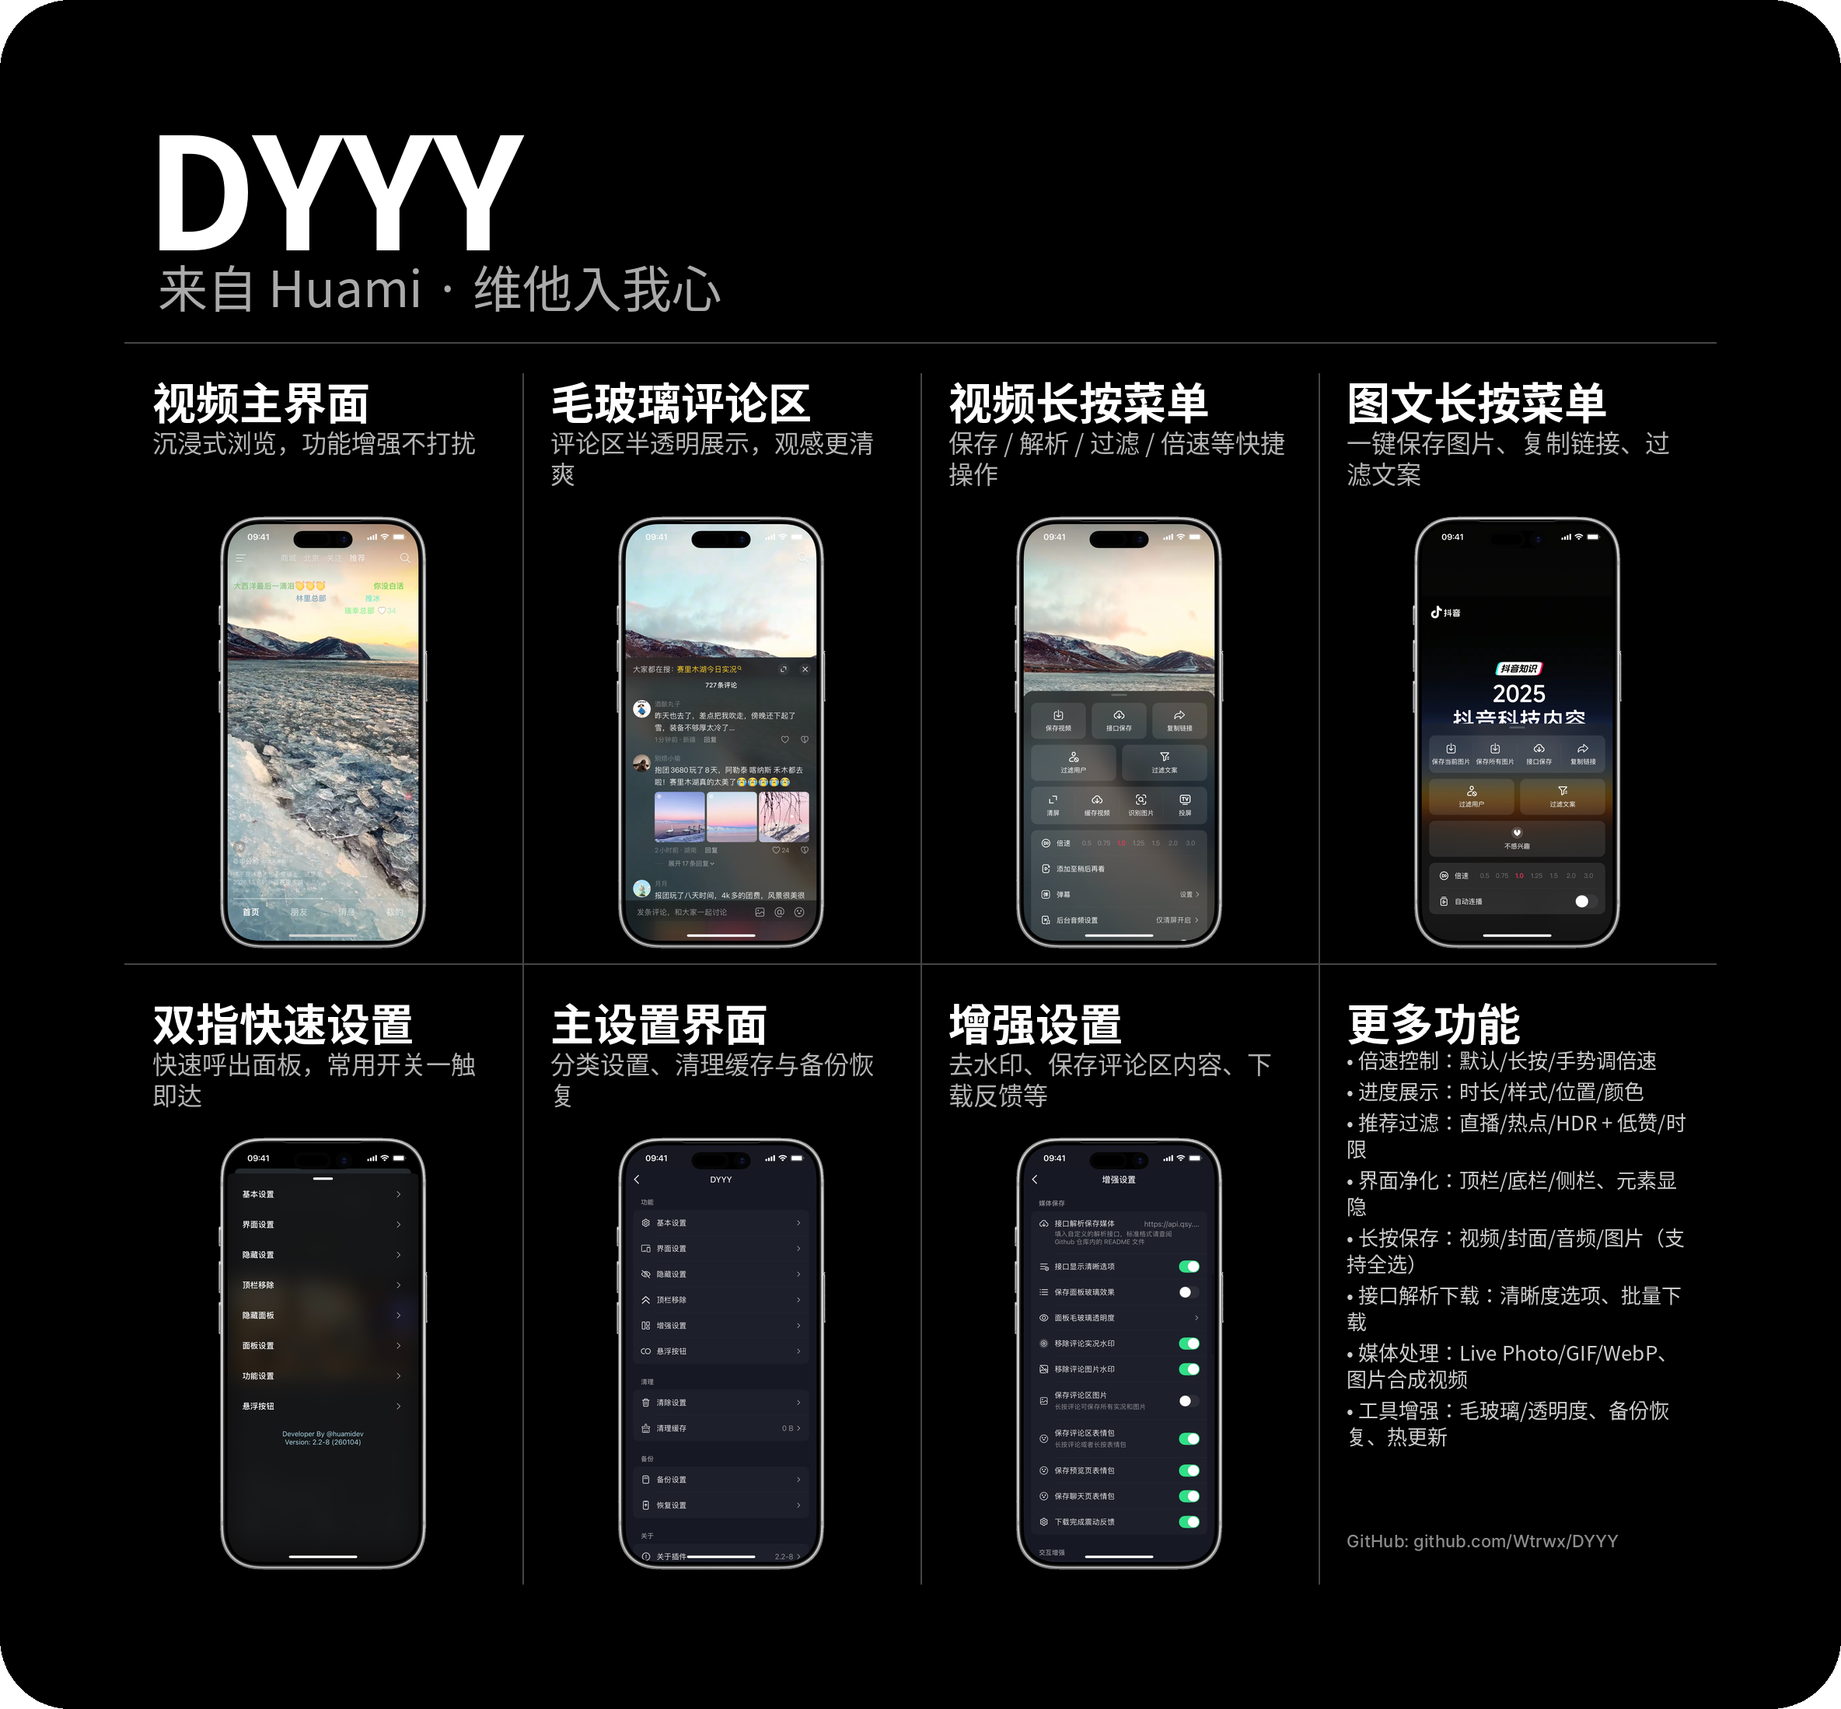
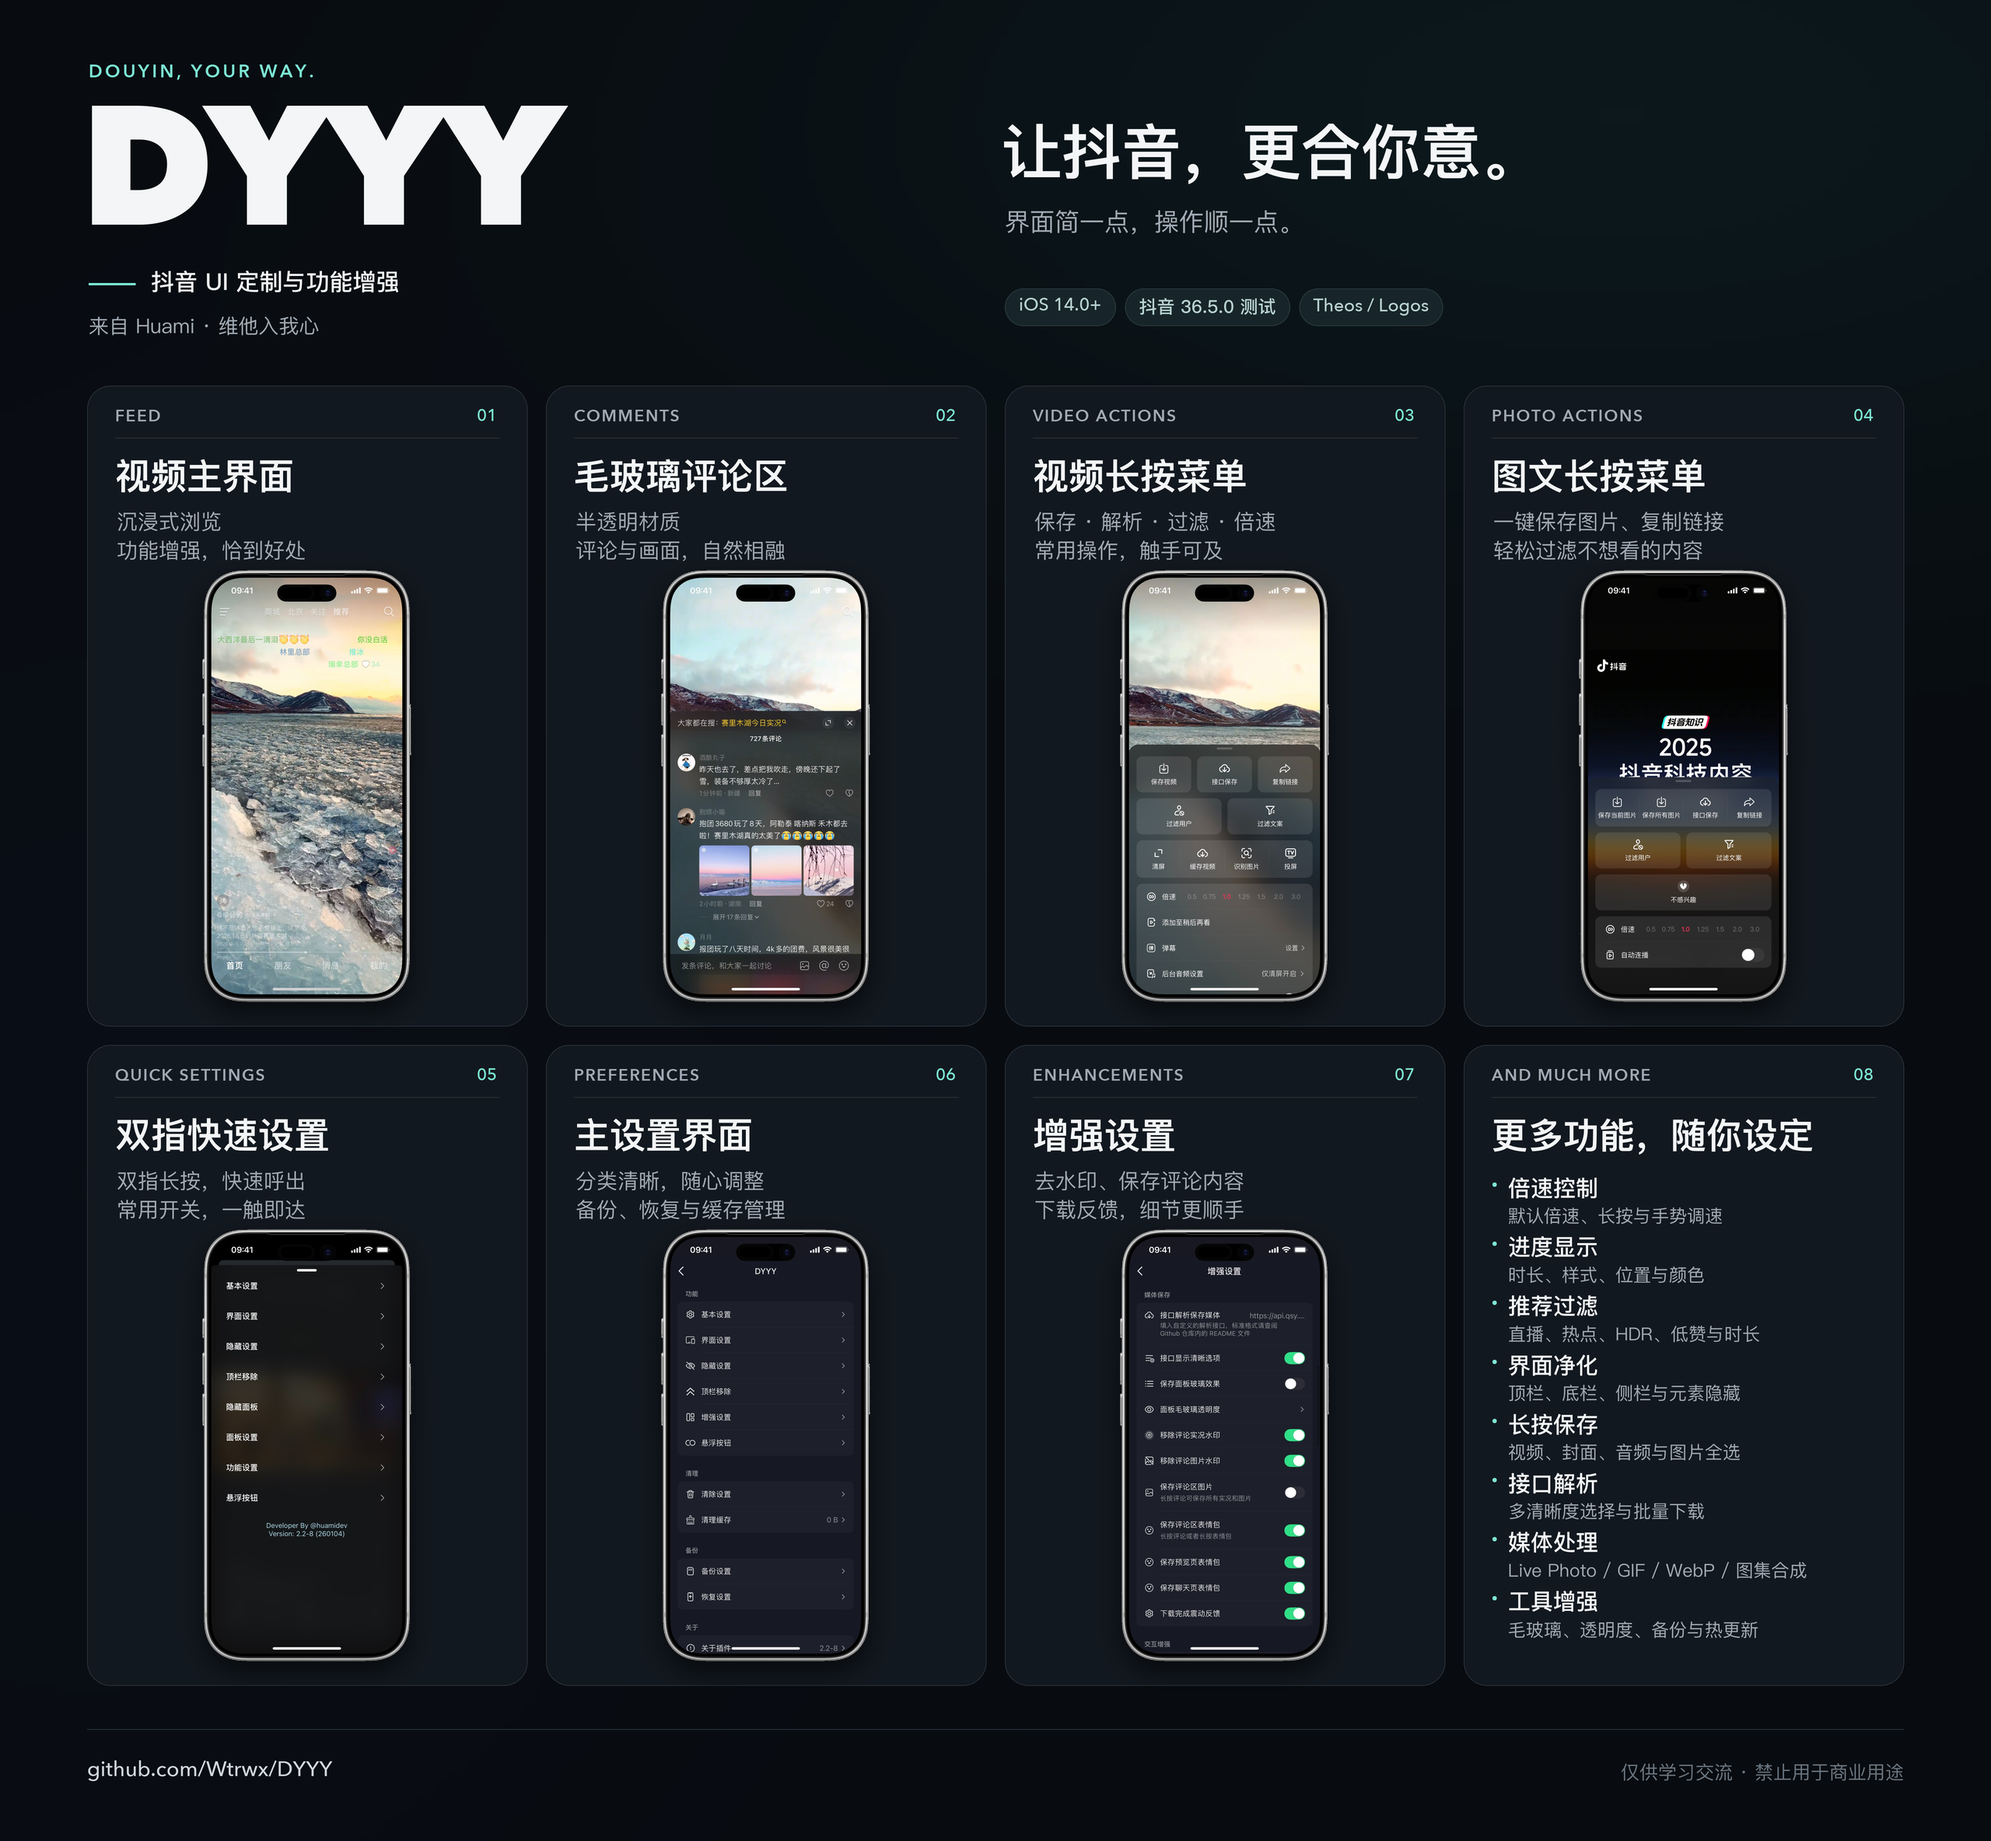
docs: 更新项目主图并保留 Python 绘图脚本

diff --git a/scripts/render_poster.py b/scripts/render_poster.py
@@ -1,0 +1,258 @@
+#!/usr/bin/env python3
+"""用 Pillow 重绘 README 主图，保留旧海报中的七张原始手机截图。
+
+安装依赖：python3 -m pip install Pillow
+生成主图：python3 scripts/render_poster.py
+字体默认使用 macOS 的苹方 SC 和 Avenir Next，不复制或分发字体文件。
+其他系统可通过 --cjk-font / --latin-font 指定本地字体。
+"""
+
+from __future__ import annotations
+
+import argparse
+import math
+from functools import lru_cache
+from pathlib import Path
+
+from PIL import Image, ImageChops, ImageDraw, ImageFilter, ImageFont
+
+
+ROOT = Path(__file__).resolve().parents[1]
+WIDTH, HEIGHT = 2560, 2368
+SCALE = 2
+MARGIN, GAP = 112, 24
+CARD_WIDTH, CARD_HEIGHT = 566, 824
+SOURCE_SIZE = (2368, 2198)
+INK = "#F3F5F6"
+MUTED = "#A1AAB4"
+QUIET = "#697580"
+ACCENT = "#7CE5D3"
+
+# 坐标来自旧主图，四周额外保留三个像素用于识别外部黑底。
+PHONE_BOXES = (
+    (278, 661, 553, 1223),
+    (790, 661, 1065, 1223),
+    (1302, 661, 1577, 1223),
+    (1814, 661, 2089, 1223),
+    (278, 1460, 553, 2022),
+    (790, 1460, 1065, 2022),
+    (1302, 1460, 1577, 2022),
+)
+
+PANELS = (
+    ("FEED", "视频主界面", ("沉浸式浏览", "功能增强，恰到好处")),
+    ("COMMENTS", "毛玻璃评论区", ("半透明材质", "评论与画面，自然相融")),
+    ("VIDEO ACTIONS", "视频长按菜单", ("保存 · 解析 · 过滤 · 倍速", "常用操作，触手可及")),
+    ("PHOTO ACTIONS", "图文长按菜单", ("一键保存图片、复制链接", "轻松过滤不想看的内容")),
+    ("QUICK SETTINGS", "双指快速设置", ("双指长按，快速呼出", "常用开关，一触即达")),
+    ("PREFERENCES", "主设置界面", ("分类清晰，随心调整", "备份、恢复与缓存管理")),
+    ("ENHANCEMENTS", "增强设置", ("去水印、保存评论内容", "下载反馈，细节更顺手")),
+)
+
+FEATURES = (
+    ("倍速控制", "默认倍速、长按与手势调速"),
+    ("进度显示", "时长、样式、位置与颜色"),
+    ("推荐过滤", "直播、热点、HDR、低赞与时长"),
+    ("界面净化", "顶栏、底栏、侧栏与元素隐藏"),
+    ("长按保存", "视频、封面、音频与图片全选"),
+    ("接口解析", "多清晰度选择与批量下载"),
+    ("媒体处理", "Live Photo / GIF / WebP / 图集合成"),
+    ("工具增强", "毛玻璃、透明度、备份与热更新"),
+)
+
+
+class Poster:
+    def __init__(self, cjk_font: Path, latin_font: Path):
+        self.cjk_font = cjk_font
+        self.latin_font = latin_font
+        self.image = self.background()
+        self.draw = ImageDraw.Draw(self.image)
+        self.phones: list[tuple[Image.Image, tuple[int, int]]] = []
+
+    @staticmethod
+    def background() -> Image.Image:
+        """低分辨率计算柔和环境光，再放大，避免依赖 NumPy。"""
+        small = Image.new("RGB", (320, 296))
+        pixels = []
+        for y in range(small.height):
+            for x in range(small.width):
+                teal = math.exp(-((x - 260) / 145) ** 2 - ((y - 18) / 70) ** 2)
+                blue = math.exp(-((x - 14) / 120) ** 2 - ((y - 190) / 140) ** 2)
+                pixels.append((int(8 + 4 * teal + 2 * blue),
+                               int(11 + 13 * teal + 3 * blue),
+                               int(15 + 13 * teal + 7 * blue)))
+        small.putdata(pixels)
+        return small.resize((WIDTH * SCALE, HEIGHT * SCALE), Image.Resampling.BICUBIC).convert("RGBA")
+
+    @lru_cache(maxsize=48)
+    def font(self, size: int, role: str = "body") -> ImageFont.FreeTypeFont:
+        latin = role.startswith("latin")
+        path = self.latin_font if latin else self.cjk_font
+        style = {
+            "body": "Regular", "medium": "Medium", "title": "Semibold",
+            "latin": "Medium", "latin_title": "Demi Bold", "latin_logo": "Heavy",
+        }[role]
+        preferred = None
+        fallback = None
+        for index in range(32):
+            try:
+                font = ImageFont.truetype(str(path), size * SCALE, index=index)
+            except OSError:
+                break
+            family, weight = font.getname()
+            if fallback is None:
+                fallback = font
+            if weight.casefold() == style.casefold():
+                preferred = font
+                if latin or family.endswith(" SC"):
+                    return font
+        if preferred or fallback:
+            return preferred or fallback
+        raise ValueError(f"无法载入字体：{path}")
+
+    def text(self, position, value, size, color=INK, role="body", tracking=0):
+        x, y = position
+        font = self.font(size, role)
+        if tracking == 0:
+            self.draw.text((round(x * SCALE), round(y * SCALE)), value, font=font,
+                           fill=color, anchor="lt")
+            return self.draw.textlength(value, font=font) / SCALE
+        cursor = x * SCALE
+        baseline = y * SCALE - self.draw.textbbox((0, 0), value, font=font, anchor="ls")[1]
+        for character in value:
+            self.draw.text((round(cursor), round(baseline)), character,
+                           font=font, fill=color, anchor="ls")
+            cursor += self.draw.textlength(character, font=font) + tracking * SCALE
+        return (cursor - x * SCALE) / SCALE - tracking
+
+    def line(self, box, color, width=1):
+        self.draw.line(tuple(round(v * SCALE) for v in box), fill=color, width=round(width * SCALE))
+
+    def rounded(self, box, radius, fill, outline=None, width=1):
+        self.draw.rounded_rectangle(tuple(round(v * SCALE) for v in box), radius=radius * SCALE,
+                                    fill=fill, outline=outline, width=round(width * SCALE))
+
+    def chip(self, x, y, value, latin=False):
+        role = "latin" if latin else "medium"
+        size = 23
+        width = self.draw.textlength(value, font=self.font(size, role)) / SCALE + 36
+        self.rounded((x, y, x + width, y + 48), 24, "#17252A", "#2A3B40")
+        self.text((x + 18, y + 12), value, size, "#B8D2D0", role)
+        return x + width + 12
+
+    def header(self):
+        self.text((MARGIN + 2, 83), "DOUYIN, YOUR WAY.", 23, ACCENT, "latin_title", tracking=3.4)
+        self.text((MARGIN - 8, 136), "DYYY", 216, INK, "latin_logo", tracking=-9)
+        self.line((MARGIN + 2, 365, MARGIN + 62, 365), ACCENT, 3)
+        self.text((MARGIN + 82, 348), "抖音 UI 定制与功能增强", 30, INK, "medium")
+        self.text((MARGIN + 2, 407), "来自 Huami · 维他入我心", 26, MUTED)
+
+        self.text((1288, 158), "让抖音，更合你意。", 77, INK, "title")
+        self.text((1292, 270), "界面简一点，操作顺一点。", 32, MUTED)
+        next_x = self.chip(1292, 371, "iOS 14.0+", latin=True)
+        next_x = self.chip(next_x, 371, "抖音 36.5.0 测试")
+        self.chip(next_x, 371, "Theos / Logos", latin=True)
+
+    def panel(self, x, y, index, category, title, descriptions):
+        self.rounded((x, y, x + CARD_WIDTH, y + CARD_HEIGHT), 30, "#12181F", "#29313A")
+        self.line((x + 36, y + 67, x + CARD_WIDTH - 36, y + 67), "#28323A")
+        self.text((x + 36, y + 31), category, 21, MUTED, "latin_title", tracking=1.5)
+        self.text((x + CARD_WIDTH - 65, y + 30), f"{index:02d}", 22, ACCENT, "latin")
+        self.text((x + 36, y + 94), title, 46, INK, "title")
+        for line_index, value in enumerate(descriptions):
+            self.text((x + 38, y + 162 + line_index * 37), value, 27, MUTED)
+
+    @staticmethod
+    def extract_phone(source: Image.Image, box) -> Image.Image:
+        """仅移除连通至边缘的黑底，手机内部与截图像素保持原样。"""
+        phone = source.crop(box).convert("RGBA")
+        boundary = phone.convert("RGB").point(lambda value: 255 if value > 8 else 0)
+        red, green, blue = boundary.split()
+        boundary = ImageChops.lighter(ImageChops.lighter(red, green), blue)
+        for seed in ((0, 0), (phone.width - 1, 0),
+                     (0, phone.height - 1), (phone.width - 1, phone.height - 1)):
+            if boundary.getpixel(seed) == 0:
+                ImageDraw.floodfill(boundary, seed, 128)
+        phone.putalpha(boundary.point(lambda value: 0 if value == 128 else 255))
+        return phone
+
+    def screenshot(self, source, index, x, y):
+        phone = self.extract_phone(source, PHONE_BOXES[index])
+        position = (x + (CARD_WIDTH - phone.width) // 2, y + 234)
+
+        # 阴影参与超采样；手机最后以原始尺寸合成，避免二次缩放模糊截图。
+        shadow = Image.new("RGBA", self.image.size)
+        mask = phone.getchannel("A").resize((phone.width * SCALE, phone.height * SCALE),
+                                           Image.Resampling.LANCZOS)
+        shadow.paste((0, 0, 0, 145), (position[0] * SCALE, (position[1] + 14) * SCALE), mask)
+        self.image = Image.alpha_composite(self.image, shadow.filter(ImageFilter.GaussianBlur(15 * SCALE)))
+        self.draw = ImageDraw.Draw(self.image)
+        self.phones.append((phone, position))
+
+    def more(self, x, y):
+        self.panel(x, y, 8, "AND MUCH MORE", "更多功能，随你设定", ())
+        for index, (title, detail) in enumerate(FEATURES):
+            top = y + 170 + index * 76
+            self.rounded((x + 37, top + 7, x + 42, top + 12), 2, ACCENT)
+            self.text((x + 57, top), title, 29, INK, "medium")
+            self.text((x + 57, top + 39), detail, 23, MUTED)
+
+    def footer(self):
+        self.line((MARGIN, 2224, WIDTH - MARGIN, 2224), "#2A353E")
+        self.text((MARGIN, 2264), "github.com/Wtrwx/DYYY", 27, "#D0D7DC", "latin")
+        value = "仅供学习交流 · 禁止用于商业用途"
+        width = self.draw.textlength(value, font=self.font(24)) / SCALE
+        self.text((WIDTH - MARGIN - width, 2268), value, 24, QUIET)
+
+    def render(self, source: Image.Image) -> Image.Image:
+        if source.size != SOURCE_SIZE:
+            raise ValueError(f"旧海报尺寸应为 {SOURCE_SIZE}，实际为 {source.size}")
+        self.header()
+        for index, (category, title, descriptions) in enumerate(PANELS):
+            x = MARGIN + (index % 4) * (CARD_WIDTH + GAP)
+            y = 496 + (index // 4) * (CARD_HEIGHT + GAP)
+            self.panel(x, y, index + 1, category, title, descriptions)
+            self.screenshot(source, index, x, y)
+        self.more(MARGIN + 3 * (CARD_WIDTH + GAP), 1344)
+        self.footer()
+        result = self.image.resize((WIDTH, HEIGHT), Image.Resampling.LANCZOS)
+        for phone, position in self.phones:
+            result.alpha_composite(phone, position)
+        return result.convert("RGB")
+
+
+def default_font(latin=False) -> Path:
+    if latin:
+        candidates = [Path("/System/Library/Fonts/Avenir Next.ttc")]
+    else:
+        candidates = [Path("/System/Library/Fonts/PingFang.ttc")]
+        candidates += sorted(Path("/System/Library/AssetsV2").glob(
+            "com_apple_MobileAsset_Font*/*/AssetData/PingFang.ttc"))
+    for path in candidates:
+        if path.is_file():
+            return path
+    option = "--latin-font" if latin else "--cjk-font"
+    raise FileNotFoundError(f"没有找到默认字体，请使用 {option} 指定字体文件")
+
+
+def main():
+    parser = argparse.ArgumentParser(description=__doc__)
+    parser.add_argument("--source", type=Path, default=ROOT / "Screenshots/source/DYYY_poster_original.png")
+    parser.add_argument("--output", type=Path, default=ROOT / "Screenshots/DYYY_poster.png")
+    parser.add_argument("--cjk-font", type=Path)
+    parser.add_argument("--latin-font", type=Path)
+    args = parser.parse_args()
+    if args.source.resolve() == args.output.resolve():
+        parser.error("原始海报和输出主图不能使用同一个文件")
+    poster = Poster(args.cjk_font or default_font(), args.latin_font or default_font(latin=True))
+    with Image.open(args.source) as source:
+        result = poster.render(source)
+    args.output.parent.mkdir(parents=True, exist_ok=True)
+    result.save(args.output, optimize=True)
+    print(f"已生成：{args.output}（{result.width} × {result.height}）")
+    print(f"中文字体：{poster.font(27).getname()}；标题字体：{poster.font(46, 'title').getname()}")
+    print(f"英文字体：{poster.font(216, 'latin_logo').getname()}；保留原始截图：{len(poster.phones)} 张")
+
+
+if __name__ == "__main__":
+    main()
